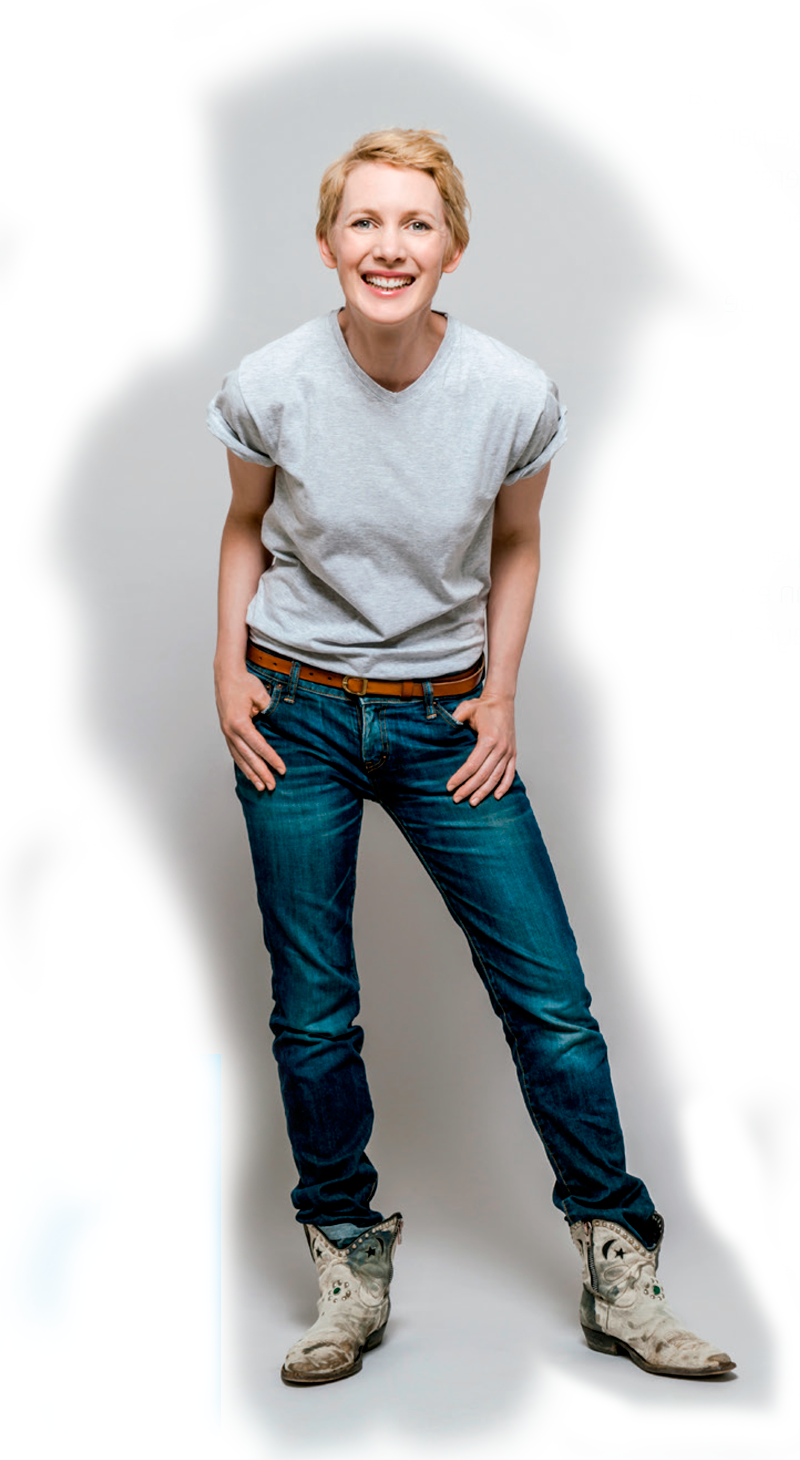
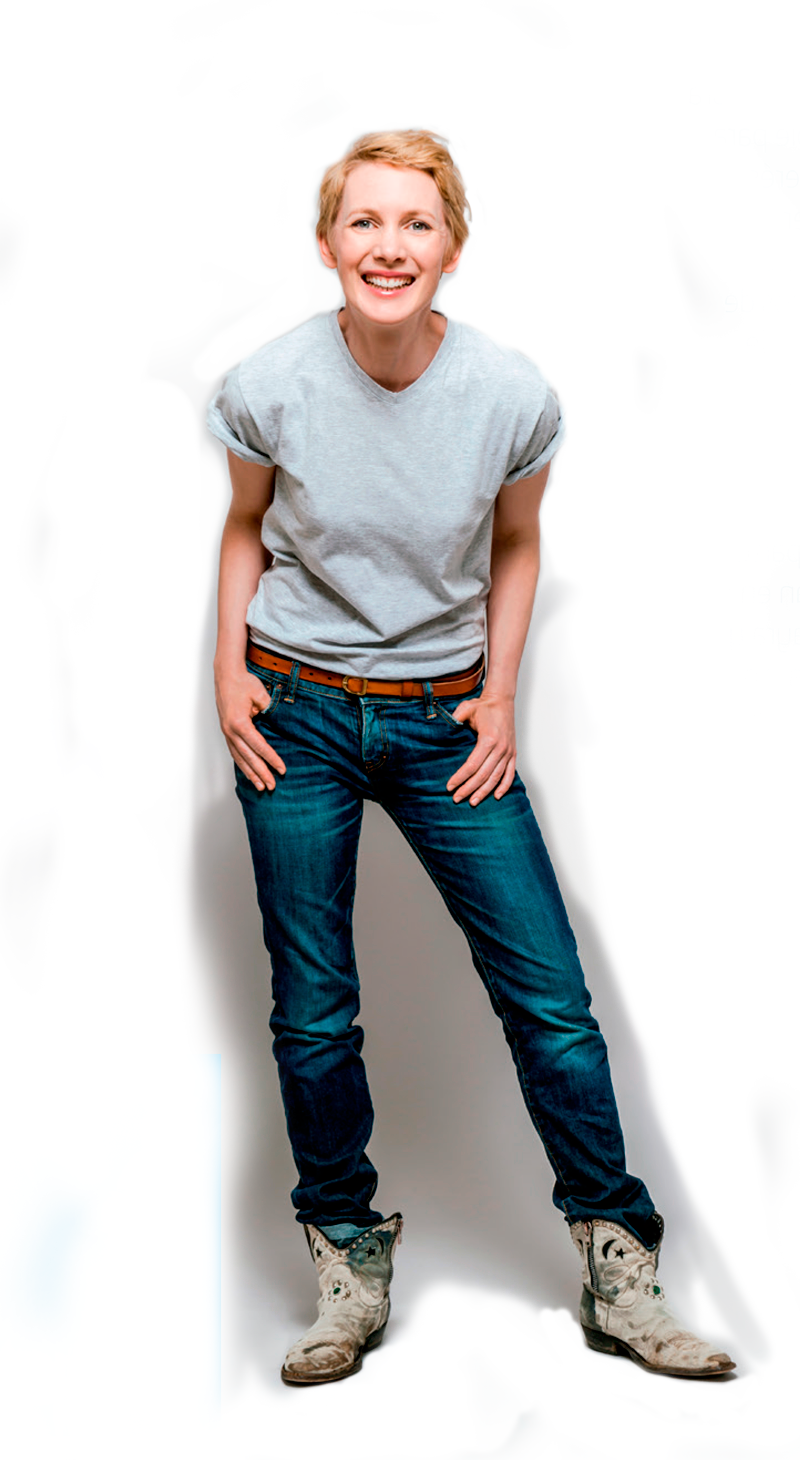
se ajustan estilos mobile y ajustes de imagenes

diff --git a/css/estilos-generales.css b/css/estilos-generales.css
@@ -506,11 +506,13 @@ border-top-right-radius: 50px;
     width: 100%;
     background-position: 0px -1px;
     background-size: cover;
-        height: 339px;
+        /*height: 339px;*/
         margin-top: 113px;
 
 
 }
+
+
 
 
 .caja-texto-seccion-banner h1{
@@ -1038,10 +1040,127 @@ th.tg-0pky.border-transparent {
 
 /**********************************ESTILOS RESPONSIVE*****************************/
 
-
+.caja-texto-proceso-informe2{
+    display: none;
+}
+.parrafo-hidden{
+    display: block;
+}
 
 
 @media screen and (max-width: 1024px) {
+    .imagen-podio h4 {
+    margin: 0;
+    font-family: 'Telefonica-bold';
+    font-size: 1em;
+}
+
+    .imagen-lapiz h4 {
+    margin: 0;
+    font-family: 'Telefonica-bold';
+    font-size: 1em;
+}
+    .flecha img {
+    width: 100%;
+    max-width: 54px;
+    display: block;
+    margin: 0 ;
+    -moz-transform: rotate(90deg);
+    -webkit-transform: rotate(
+90deg
+);
+    -o-transform: rotate(90deg);
+    -ms-transform: rotate(90deg);
+   
+}
+
+.imagenes-podio-lapiz {
+    display: flex;
+    justify-content: space-around;
+    width: 100%;
+    max-width: 191px;
+}
+
+.caja-texto-invitados h4 {
+    margin: 0;
+    font-family: 'Telefonica-bold';
+    font-size: 1em;
+}
+.caja-texto-invitados h2 {
+    color: #FFF;
+    font-size: 2em;
+    margin: 0;
+    font-family: 'Telefonica-bold';
+}
+    .imagen-podio img {
+    width: 100%;
+    max-width: 60px;
+    display: block;
+    margin: 0 auto;
+}
+.imagen-lapiz img {
+    width: 100%;
+    max-width: 60px;
+    display: block;
+    margin: 0 auto;
+}
+
+    .caja-iconos-negocio{
+        align-items: flex-start;
+        justify-content: flex-start;
+            padding-left: 20px;
+    }
+
+
+    .caja-plan-negocio-rentable h1{
+        margin-left: 0;
+    }
+
+    .parrafo-hidden{
+    display: none;
+}
+
+    .caja-texto-proceso-informe2{
+        display: block;
+    }
+
+    .imagen-anualmente img {
+    width: 100%;
+    max-width: 253px;
+    display: block;
+    margin: 0;
+}
+
+    .caja-texto-anualmente-interna h2, .caja-texto-anualmente-interna p{
+        padding: 20px;
+
+    }
+    .caja-texto-anualmente-interna p{
+        padding-top: 0;
+    }
+    .caja-texto-anualmente-interna h2{
+        padding-bottom: 0;
+    }
+    .container.container-padding {
+    padding: 0;
+}
+
+    .imagen-anualmente{
+        background: transparent;
+    }
+
+    .caja-texto-seccion-banner {
+    padding: 18px;
+}
+
+    .contenedor-banner:nth-of-type(1){
+        padding: 0;
+
+    }
+
+    .banner-secciones-internas{
+        margin-top: 0;
+    }
 
     .texto-comunicacion{
         padding: 40px;
@@ -1066,10 +1185,7 @@ th.tg-0pky.border-transparent {
         flex-direction: column;
     }
 
-    .caja-iconos-negocio{
-        flex-direction: column;
-
-    }
+    
 
     .columnas-proceso-informe{
             flex-direction: column;
@@ -1174,13 +1290,157 @@ th.tg-0pky.border-transparent {
     }
 }
 @media screen and (max-width: 800px) {
+    .texto-asuntos-materiales {
+    padding: 22px;
+}
+    .caja-asuntos-materiales h1 {
+    font-family: 'Telefonica';
+    color: #019df4;
+    font-size: 2em;
+    padding-left: 27px;
+}
+     .imagen-podio h4 {
+    margin: 0;
+    font-family: 'Telefonica-bold';
+    font-size: 1em;
+}
+
+    .imagen-lapiz h4 {
+    margin: 0;
+    font-family: 'Telefonica-bold';
+    font-size: 1em;
+}
+    .flecha img {
+    width: 100%;
+    max-width: 54px;
+    display: block;
+    margin: 0 ;
+    -moz-transform: rotate(90deg);
+    -webkit-transform: rotate(
+90deg
+);
+    -o-transform: rotate(90deg);
+    -ms-transform: rotate(90deg);
+   
+}
+
+.imagenes-podio-lapiz {
+    display: flex;
+    justify-content: space-around;
+    width: 100%;
+    max-width: 191px;
+}
+
+.caja-texto-invitados h4 {
+    margin: 0;
+    font-family: 'Telefonica-bold';
+    font-size: 1em;
+}
+.caja-texto-invitados h2 {
+    color: #FFF;
+    font-size: 2em;
+    margin: 0;
+    font-family: 'Telefonica-bold';
+}
+    .imagen-podio img {
+    width: 100%;
+    max-width: 60px;
+    display: block;
+    margin: 0 auto;
+}
+.imagen-lapiz img {
+    width: 100%;
+    max-width: 60px;
+    display: block;
+    margin: 0 auto;
+}
+
+    .caja-iconos-negocio{
+        align-items: flex-start;
+        justify-content: flex-start;
+            padding-left: 20px;
+    }
+
+
+    .caja-plan-negocio-rentable h1{
+        margin-left: 0;
+    }
+
+    .parrafo-hidden{
+    display: none;
+}
+
+    .caja-texto-proceso-informe2{
+        display: block;
+    }
+
+    .imagen-anualmente img {
+    width: 100%;
+    max-width: 253px;
+    display: block;
+    margin: 0;
+}
+
+    .caja-texto-anualmente-interna h2, .caja-texto-anualmente-interna p{
+        padding: 20px;
+
+    }
+    .caja-texto-anualmente-interna p{
+        padding-top: 0;
+    }
+    .caja-texto-anualmente-interna h2{
+        padding-bottom: 0;
+    }
+    .container.container-padding {
+    padding: 0;
+}
+
+    .imagen-anualmente{
+        background: transparent;
+    }
+
+    .caja-texto-seccion-banner {
+    padding: 18px;
+}
+
+    .contenedor-banner:nth-of-type(1){
+        padding: 0;
+
+    }
+
+    .banner-secciones-internas{
+        margin-top: 0;
+    }
+
+    .texto-comunicacion{
+        padding: 40px;
+        margin: 0 auto;
+    }
+
+    .imagen-comunicacion img {
+    width: 100%;
+    max-width: 100%;
+    display: block;
+    margin: 0 auto;
+    object-fit: cover;
+    height: 100%;
+    min-height: 621px;
+}
+
+.imagen-comunicacion{
+    margin: 0 auto;
+}
+
+    .columnas-comunicacion-seccion{
+        flex-direction: column;
+    }
     .btn-z{
     right: 16px;
 }
     .container-fluid.content-cajas {
     padding: 0;
 }
-    body {
+    body.home {
     background-image: url(../img/fondo-header.jpg);
     background-position: -48px 100px;
     background-size: 100%;

diff --git a/seccion-interna-telefonica-1.html b/seccion-interna-telefonica-1.html
@@ -449,7 +449,7 @@ Designed & Coded by ABCgomel
           </div>
         </div>
         <div class="page-section">
-          <div class="container">
+          <div class="container container-padding">
             <div class="caja-anualmente">
               <div class="caja-texto-anualmente">
                 <div class="caja-texto-anualmente-interna">
@@ -482,7 +482,7 @@ Designed & Coded by ABCgomel
                   
                   <h3>Relacionamiento con grupos de interes</h3>
                   <p>Lorem ipsum dolor sit amet consectetur adipisicing elit. Asperiores dolore id nam voluptatibus dolor incidunt placeat molestiae eveniet ipsum! Nam, quibusdam. Inventore quis temporibus dicta placeat quasi aliquid quae quibusdam. Lorem ipsum, dolor sit amet consectetur, adipisicing elit. Pariatur, ab, aperiam. Iste doloremque vero eaque, ullam, aspernatur, molestias adipisci tenetur minus, quibusdam repudiandae repellendus ad illum sapiente hic. Qui, omnis.</p>
-                  <p>Lorem ipsum dolor sit amet consectetur adipisicing elit. Aliquam, quaerat quia! Dolores, commodi hic! Nobis officia libero quia, repudiandae, eos ipsa minus voluptates placeat error esse, illum, labore natus excepturi!Lorem ipsum dolor sit amet, consectetur adipisicing elit, sed do eiusmod
+                  <p class="parrafo-hidden">Lorem ipsum dolor sit amet consectetur adipisicing elit. Aliquam, quaerat quia! Dolores, commodi hic! Nobis officia libero quia, repudiandae, eos ipsa minus voluptates placeat error esse, illum, labore natus excepturi!Lorem ipsum dolor sit amet, consectetur adipisicing elit, sed do eiusmod
                     tempor incididunt ut labore et dolore magna aliqua. Ut enim ad minim veniam,
                     quis nostrud exercitation ullamco laboris nisi ut aliquip ex ea commodo
                     consequat. Duis aute irure dolor in reprehenderit in voluptate velit esse
@@ -498,13 +498,26 @@ Designed & Coded by ABCgomel
                 <div class="cuadros-procesos">
                   <img src="img/grafico-seecion-1-2.png" alt="">
                 </div>
+                <div class="caja-texto-proceso-informe2">
+                  <p>Lorem ipsum dolor sit amet consectetur adipisicing elit. Aliquam, quaerat quia! Dolores, commodi hic! Nobis officia libero quia, repudiandae, eos ipsa minus voluptates placeat error esse, illum, labore natus excepturi!Lorem ipsum dolor sit amet, consectetur adipisicing elit, sed do eiusmod
+                    tempor incididunt ut labore et dolore magna aliqua. Ut enim ad minim veniam,
+                    quis nostrud exercitation ullamco laboris nisi ut aliquip ex ea commodo
+                    consequat. Duis aute irure dolor in reprehenderit in voluptate velit esse
+                    cillum dolore eu fugiat nulla pariatur. Excepteur sint occaecat cupidatat non
+                    proident, sunt in culpa qui officia deserunt mollit anim id est laborum.lorem Lorem ipsum dolor sit amet consectetur adipisicing elit. Reprehenderit atque vitae explicabo quia ipsam quo laborum sint laudantium quibusdam cupiditate repellendus maiores dolor laboriosam ex, harum quisquam iste sunt beatae. Lorem ipsum dolor sit amet, consectetur adipisicing elit, sed do eiusmod
+                    tempor incididunt ut labore et dolore magna aliqua. Ut enim ad minim veniam,
+                    quis nostrud exercitation ullamco laboris nisi ut aliquip ex ea commodo
+                    consequat. Duis aute irure dolor in reprehenderit in voluptate velit esse
+                    cillum dolore eu fugiat nulla pariatur. Excepteur sint occaecat cupidatat non
+                  proident, sunt in culpa qui officia deserunt mollit anim id est laborum.</p>
+                </div>
               </div>
             </div>
           </div>
         </div>
         
         <div class="page-section">
-          <div class="container contenedor-seccion">
+          <div class="container contenedor-seccion container-padding">
             <div class="caja-plan-negocio-rentable">
               <h1>Plan de Negocio Rentable 2016</h1>
               <div class="caja-iconos-negocio">
@@ -518,7 +531,7 @@ Designed & Coded by ABCgomel
                     <img src="img/Telefonica_IS2020_20210323-(2)-5_06.png">
                   </div>
                 </div>
-                
+                <div class="cajas-datos">
                 <div class="invitados">
                   <div class="caja-texto-invitados">
                     <h4>Invitados Colombia</h4>
@@ -547,13 +560,14 @@ Designed & Coded by ABCgomel
                   </div>
                 </div>
               </div>
+              </div>
             </div>
           </div>
         </div>
         <div class="page-section">
-          <div class="container contenedor-seccion">
+          <div class="container contenedor-seccion container-padding">
             <div class="caja-asuntos-materiales">
-              <h1>Asuntos Materiales identificados <br>en Panel de Stakeholders</h1>
+              <h1>Asuntos Materiales identificados en Panel de Stakeholders</h1>
               
               <div class="imagen-asuntos-materiales">
                 <img src="img/grafico-seecion-1.png" alt="" class="target">
